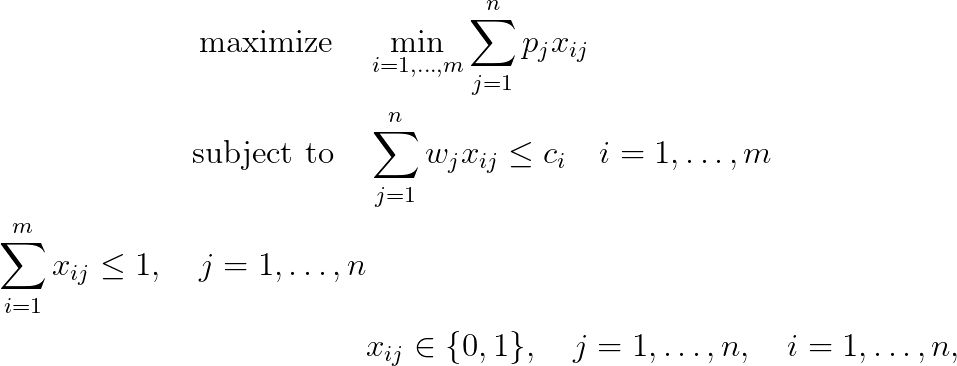
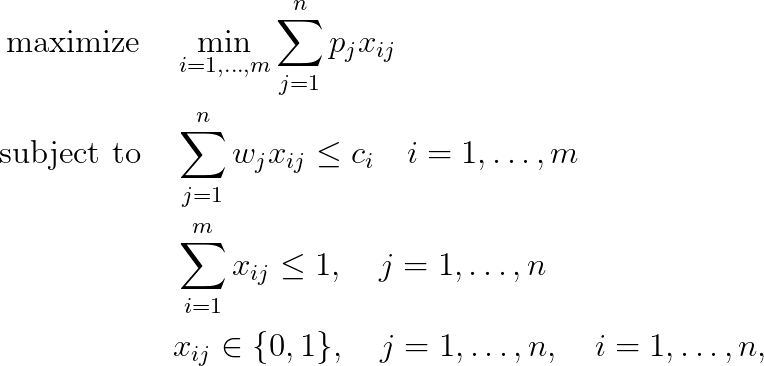
Create 08-bottleneck-multiple-subset-sum-problem

diff --git a/08-bottleneck-multiple-subset-sum-problem/problem.tex b/08-bottleneck-multiple-subset-sum-problem/problem.tex
@@ -1,8 +1,6 @@
 \begin{align*}
-\text{maximize} \quad & \sum_{i=1}^m \sum_{j=1}^n p_j x_{ij} \\
+\text{maximize} \quad & \min_{i=1, \ldots, m} \sum_{j=1}^n p_j x_{ij} \\
 \text{subject to} \quad & \sum_{j=1}^n w_j x_{ij} \leq c_i \quad i = 1, \ldots, m \\
 & \sum_{i=1}^m x_{ij} \leq 1, \quad j = 1, \ldots, n \\
 & x_{ij} \in \lbrace 0, 1 \rbrace, \quad j = 1, \ldots,n, \quad i = 1, \ldots, n,
 \end{align*}
-
-
